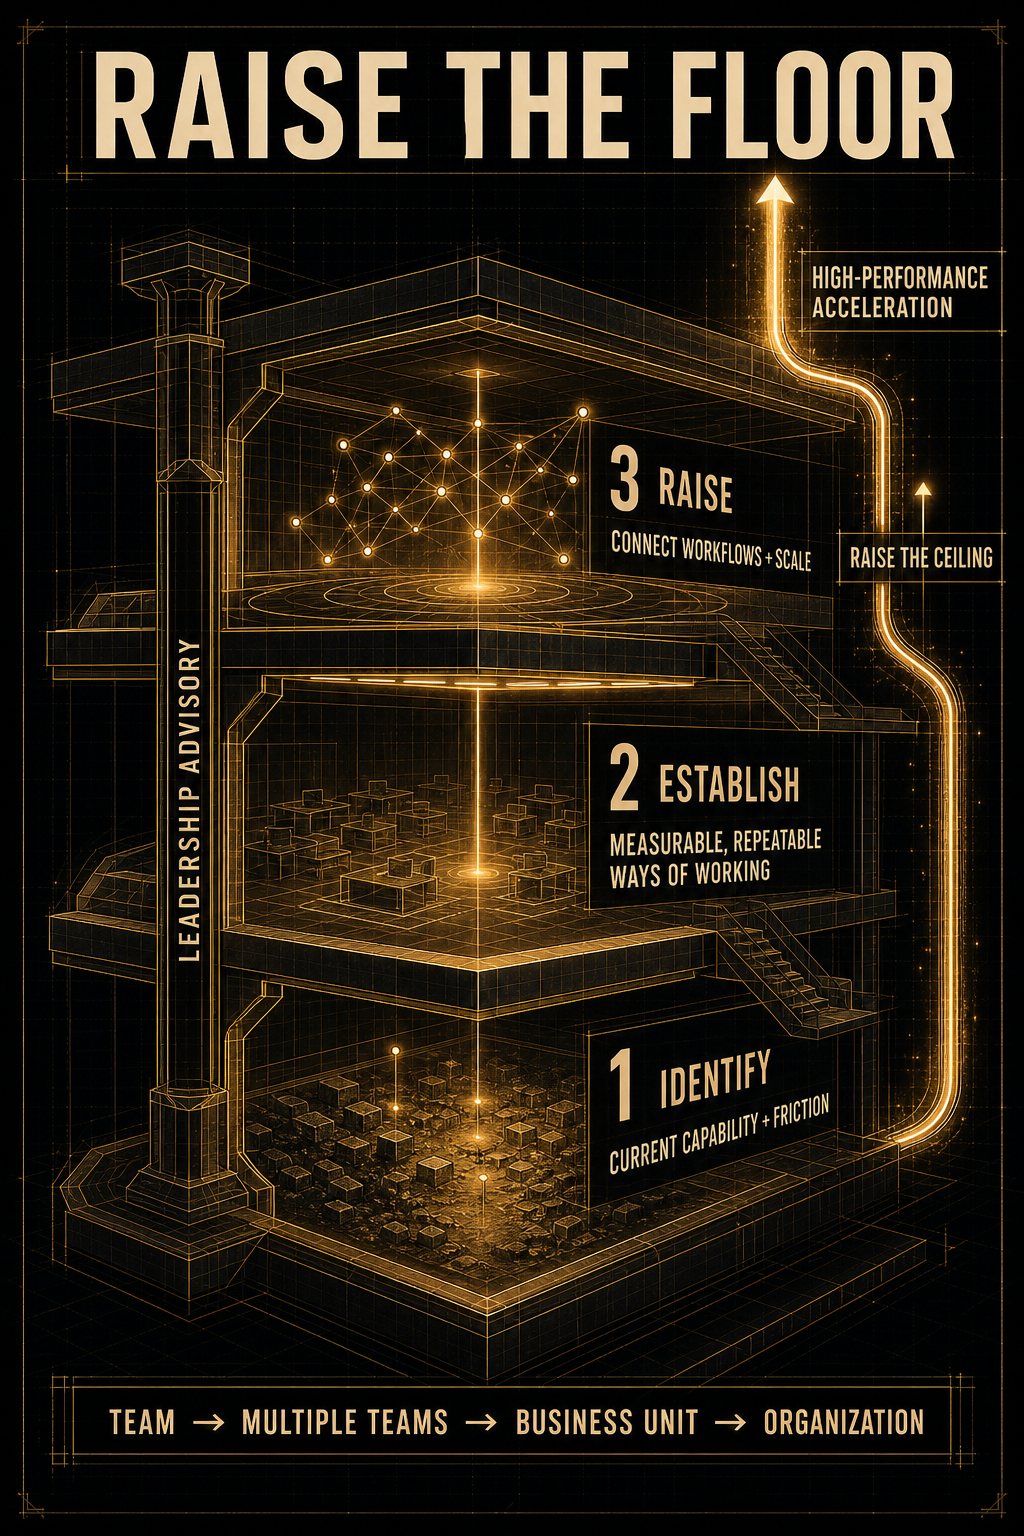
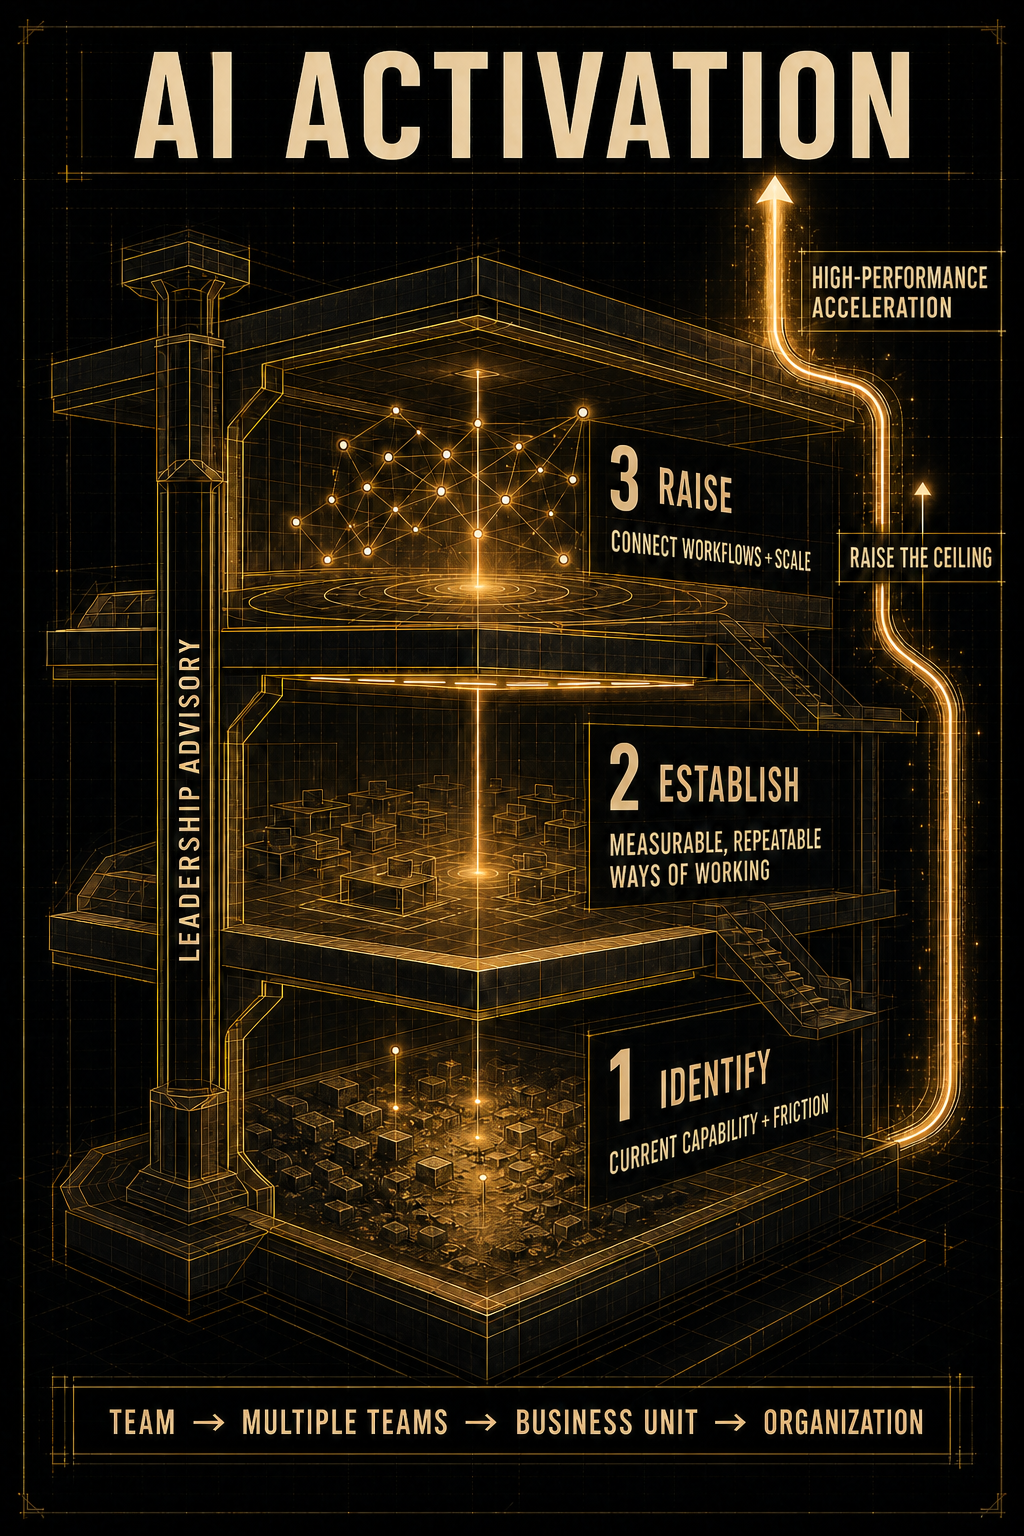
Update wall graphic to AI Activation

diff --git a/implementation-notes/RUN-20260805-thinking-ai-activation-wall-title.md b/implementation-notes/RUN-20260805-thinking-ai-activation-wall-title.md
@@ -1,0 +1,56 @@
+# AI Activation wall-title edit
+
+## Objective
+
+Preserve the existing portrait architectural capability-path infographic while
+changing only its large top title from `RAISE THE FLOOR` to `AI ACTIVATION`.
+
+## Result
+
+- Replaced `assets/thinking/raise-the-floor-capability-path.png` in place with
+  the selected built-in image-generation edit.
+- Normalized the returned raster through macOS image services to a standard
+  PNG so browsers and local inspection decode the complete image consistently;
+  this did not change its dimensions or composition.
+- Preserved the existing `1024x1536` dimensions and portrait aspect ratio, so
+  the Three.js texture path, wall placement, scale, frame, and light remain
+  unchanged.
+- The final title is the exact uppercase text `AI ACTIVATION`, centered in the
+  original title area with the same condensed cream-and-gold architectural
+  treatment.
+- The original asset remains recoverable from website revision `29cf684`.
+
+Asset hashes:
+
+- original: `sha256:e7ccb32b00456bff3c2e8691a9c532c4c9aabf9822f74e19df5ec7fbe39834c1`
+- final: `sha256:d1617888807caddf354c8bfa8bd050bcb5cf06861cf034071cadac58d5880045`
+
+## Final prompt
+
+Built-in image-generation edit mode was used with the live PNG as the edit
+target:
+
+> Use case: text-localization. Asset type: portrait website wall infographic.
+> Change only the large headline at the very top from “RAISE THE FLOOR” to
+> “AI ACTIVATION.” Match the existing headline's condensed uppercase type
+> style, cream-gold color, subtle glow, height, baseline, and visual weight.
+> Center “AI ACTIVATION” naturally in the same headline area. Pixel-lock every
+> region below the horizontal divider beneath the headline and every border or
+> line outside the old headline letters. Preserve the 1024x1536 dimensions,
+> crop, architectural structure, floors, network, arrows, numbered labels, all
+> small text, lighting, linework, texture, and black/gold palette. Do not redraw,
+> simplify, reinterpret, add, remove, crop, or modify anything except the
+> headline letters. No watermark.
+
+## Preserved
+
+All diagram content, offer labels, room placement, display framing, lighting,
+interaction behavior, surrounding exhibits, desktop architecture, and mobile
+experience remain unchanged.
+
+## Validation
+
+- PNG integrity and exact `1024x1536` dimensions.
+- Visual inspection of the generated source and project-bound replacement.
+- Repository test suite, YAML parse, and whitespace checks.
+- Local desktop walkthrough of the existing wall position.
